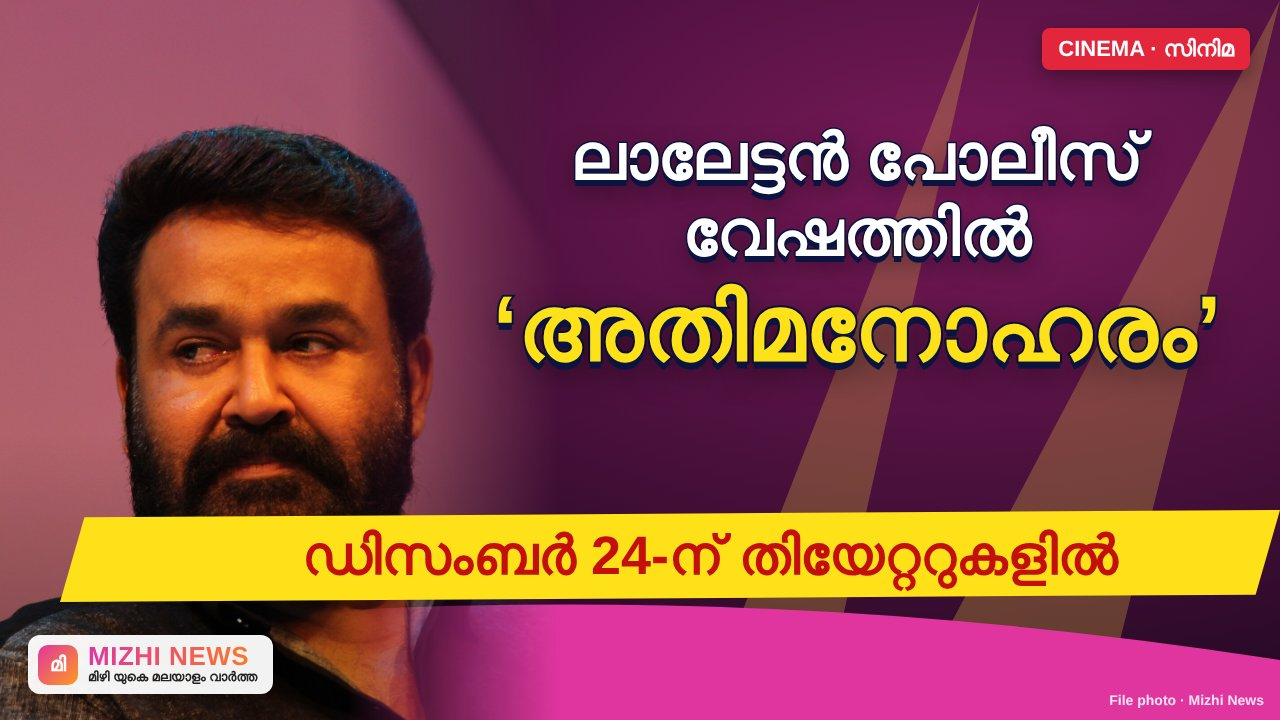
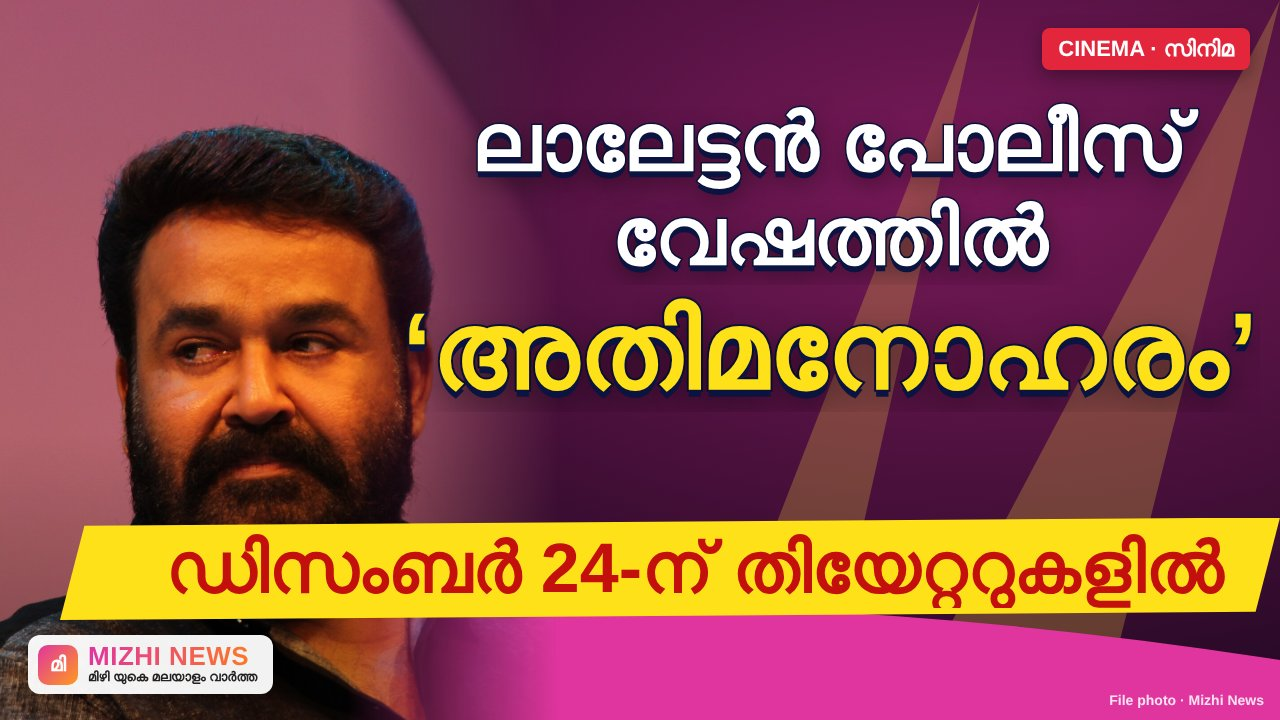
Bigger poster headline text with auto-fit; bigger article text
Claude-Session: https://claude.ai/code/session_013xFdCJ7yz8gcxfS74ZeZZe

Changed region(s): [[0.3125, 0.1222, 1.0, 0.55], [0.0312, 0.7028, 1.0, 0.8861]]

diff --git a/scripts/card-template-poster.html b/scripts/card-template-poster.html
@@ -9,12 +9,12 @@ svg.bg{position:absolute;inset:0}
 .photo{position:absolute;left:0;top:0;width:560px;height:720px;background-size:cover;background-position:center top;
  -webkit-mask-image:linear-gradient(90deg,#000 62%,transparent 100%);mask-image:linear-gradient(90deg,#000 62%,transparent 100%)}
 .photo::after{content:"";position:absolute;inset:0;background:linear-gradient(180deg,transparent 60%,rgba(0,0,0,.35))}
-.hl{position:absolute;left:470px;right:36px;top:120px;text-align:center}
-.l1{font-weight:900;font-size:64px;line-height:1.18;color:#fff;-webkit-text-stroke:3px #0b1440;paint-order:stroke fill;text-shadow:0 6px 0 #0b1440,0 10px 24px rgba(0,0,0,.5)}
-.l2{font-weight:900;font-size:92px;line-height:1.12;color:#ffe11a;-webkit-text-stroke:4px #0b1440;paint-order:stroke fill;text-shadow:0 7px 0 #0b1440,0 12px 30px rgba(0,0,0,.5);margin-top:6px}
-.strip{position:absolute;left:60px;right:0;bottom:118px;padding:14px 40px 16px 120px;text-align:center;
+.hl{position:absolute;left:400px;right:20px;top:96px;text-align:center}
+.l1{overflow:hidden;font-weight:900;font-size:80px;line-height:1.18;color:#fff;-webkit-text-stroke:3px #0b1440;paint-order:stroke fill;text-shadow:0 6px 0 #0b1440,0 10px 24px rgba(0,0,0,.5)}
+.l2{overflow:hidden;font-weight:900;font-size:124px;line-height:1.12;color:#ffe11a;-webkit-text-stroke:4px #0b1440;paint-order:stroke fill;text-shadow:0 7px 0 #0b1440,0 12px 30px rgba(0,0,0,.5);margin-top:6px}
+.strip{position:absolute;left:60px;right:0;bottom:100px;padding:10px 30px 12px 80px;text-align:center;
  background:#ffe11a;clip-path:polygon(2% 8%,100% 0,98% 92%,0 100%);box-shadow:0 10px 30px rgba(0,0,0,.4)}
-.l3{font-weight:900;font-size:54px;line-height:1.15;color:#c4100c}
+.l3{overflow:hidden;font-weight:900;font-size:70px;line-height:1.15;color:#c4100c}
 .en{position:absolute;left:470px;right:36px;bottom:66px;text-align:center;color:#fff;font:700 24px/1.3 "Outfit",sans-serif;text-shadow:0 2px 10px rgba(0,0,0,.7)}
 .logo{position:absolute;left:28px;bottom:26px;display:flex;align-items:center;gap:10px;background:rgba(255,255,255,.95);padding:8px 16px 8px 10px;border-radius:12px;box-shadow:0 6px 20px rgba(0,0,0,.35)}
 .logo b{display:block;font:900 26px/1 "Outfit",sans-serif;background:linear-gradient(90deg,#e0359f,#ff7a1f);-webkit-background-clip:text;color:transparent;letter-spacing:.02em}
@@ -31,4 +31,13 @@ svg.bg{position:absolute;inset:0}
 
 <div class="logo"><i>മി</i><div><b>MIZHI NEWS</b><small>മിഴി യുകെ മലയാളം വാർത്ത</small></div></div>
 <div class="tag">File photo · Mizhi News</div>
-</div></body></html>
+</div>
+<script>
+// Shrink any line that is too wide (or too tall) so long Malayalam words never get cut off.
+function fit(sel, maxH){var e=document.querySelector(sel);if(!e)return;var f=parseFloat(getComputedStyle(e).fontSize);
+ while(f>30&&(e.scrollWidth>e.clientWidth+2||(maxH&&e.offsetHeight>maxH))){f-=2;e.style.fontSize=f+"px";}}
+fit(".l2",150);fit(".l1",200);fit(".l3",90);
+var hl=document.querySelector(".hl"),st=document.querySelector(".strip");
+while(hl.getBoundingClientRect().bottom>st.getBoundingClientRect().top-6){var a=document.querySelector(".l1"),b=document.querySelector(".l2");
+ a.style.fontSize=(parseFloat(getComputedStyle(a).fontSize)-2)+"px";b.style.fontSize=(parseFloat(getComputedStyle(b).fontSize)-2)+"px";if(parseFloat(a.style.fontSize)<36)break;}
+</script></body></html>

diff --git a/index.html b/index.html
@@ -29,7 +29,7 @@
   <link rel="preconnect" href="https://fonts.googleapis.com">
   <link rel="preconnect" href="https://fonts.gstatic.com" crossorigin>
   <link href="https://fonts.googleapis.com/css2?family=Outfit:wght@400;600;800&family=Noto+Sans+Malayalam:wght@400;600;700&display=swap" rel="stylesheet">
-  <link rel="stylesheet" href="assets/style.css?v=39">
+  <link rel="stylesheet" href="assets/style.css?v=40">
   <script src="config.js?v=34"></script>
   <script src="news-data.js?v=34"></script>
   <!-- Google AdSense (fixed, labelled slots only; no auto ads) -->

diff --git a/sw.js b/sw.js
@@ -1,6 +1,6 @@
 // Caches the page shell so the site opens instantly and works offline.
 // The live audio stream and now-playing data are never cached.
-var CACHE = "radio-shell-v37";
+var CACHE = "radio-shell-v38";
 var SHELL = ["./", "index.html", "config.js", "assets/style.css", "assets/app.js", "news.html", "news-data.js", "assets/news.js", "data/news.json", "data/gallery.json", "assets/icon.svg", "assets/eye-poster.jpg"];
 
 self.addEventListener("install", function (e) {

diff --git a/assets/style.css b/assets/style.css
@@ -726,3 +726,7 @@ body.news-view .mini { color: #fff; } body.news-view .mini-text span { color: #c
   .np-latest-text p { display: none; }
 }
 #rdTitleMl:empty{display:none}
+/* Bigger article text (Sudhin, 24 Nov, like uukmanews) */
+.np-article .np-reader-text p { font-size: 1.22rem; }
+.np-article .np-reader-body h2, .np-article #rdTitle { font-size: clamp(1.8rem, 4.6vw, 2.6rem); }
+@media (max-width: 600px) { .np-article .np-reader-text p { font-size: 1.15rem; } }
